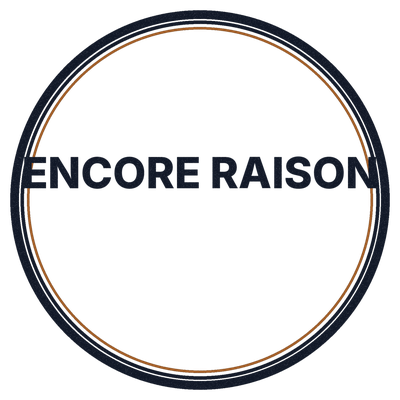
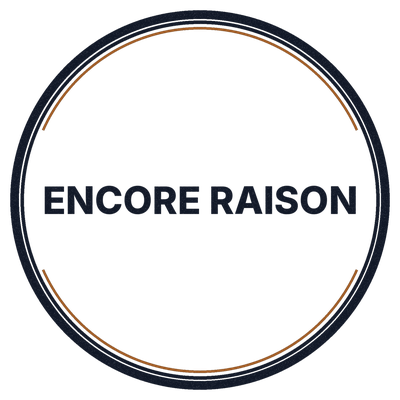
Sceau d'Orgueil : « ENCORE RAISON » centré, anneau or en deux arcs
Le texte est désormais centré au milieu exact du tampon (plus décalé
vers le haut pour laisser la place à la date). L'anneau or/ocre
n'est plus un cercle complet passant derrière les lettres : deux arcs
(haut et bas) s'arrêtent chacun avant la ligne horizontale du texte,
laissant un petit vide de chaque côté — fidèle à la photo de
référence. Position de la date réajustée en conséquence, plus bas.

Claude-Session: https://claude.ai/code/session_01PBuuTPFwSQh83FnajFjYwS

Changed region(s): [[0.06, 0.33, 0.96, 0.66], [0.09, 0.63, 0.12, 0.69], [0.87, 0.66, 0.9, 0.69]]

diff --git a/components/PredictionCard.tsx b/components/PredictionCard.tsx
@@ -48,8 +48,8 @@ const STAMP_DIAMETER = 120;
 /** Position de la date et de son soulignement, en fraction du diamètre —
  * doit rester cohérente avec l'espace laissé vide sous « ENCORE RAISON »
  * dans l'artwork généré par scripts/generate_stamp.py. */
-const STAMP_DATE_TOP_FRACTION = 0.53;
-const STAMP_DATE_RULE_TOP_FRACTION = 0.62;
+const STAMP_DATE_TOP_FRACTION = 0.58;
+const STAMP_DATE_RULE_TOP_FRACTION = 0.67;
 
 /**
  * Carte d'une prédiction, partagée entre les onglets À venir et Passées du

diff --git a/scripts/generate_stamp.py b/scripts/generate_stamp.py
@@ -37,11 +37,22 @@ GAP1_FRAC = 0.02
 MIDDLE_WIDTH_FRAC = 0.017
 GAP2_FRAC = 0.018
 GOLD_WIDTH_FRAC = 0.013
+# L'anneau or/ocre n'est pas un cercle complet : deux arcs (haut et bas) qui
+# s'arrêtent chacun avant d'atteindre la ligne horizontale du texte, laissant
+# un petit vide de chaque côté plutôt que de passer derrière les lettres.
+GOLD_GAP_HALF_ANGLE_DEG = 24
 
 
 def ring(draw, radius, width, color):
     bbox = [CENTER - radius, CENTER - radius, CENTER + radius, CENTER + radius]
     draw.ellipse(bbox, outline=color + (255,), width=width)
+
+
+def ring_two_arcs(draw, radius, width, color, gap_half_angle_deg):
+    bbox = [CENTER - radius, CENTER - radius, CENTER + radius, CENTER + radius]
+    g = gap_half_angle_deg
+    draw.arc(bbox, start=g, end=180 - g, fill=color + (255,), width=width)
+    draw.arc(bbox, start=180 + g, end=360 - g, fill=color + (255,), width=width)
 
 
 def add_grain(layer, amount=14, seed=7):
@@ -75,14 +86,19 @@ def main():
     gold_outer_edge = middle_outer_edge - HALF * MIDDLE_WIDTH_FRAC - HALF * GAP2_FRAC
     gold_width = HALF * GOLD_WIDTH_FRAC
     gold_centerline = gold_outer_edge - gold_width / 2
-    ring(draw, radius=gold_centerline, width=round(gold_width), color=GOLD)
+
+    # Deux arcs (haut et bas) plutôt qu'un cercle complet : chacun s'arrête
+    # avant la ligne horizontale du texte, laissant un vide de chaque côté
+    # au lieu de passer derrière les lettres.
+    ring_two_arcs(draw, radius=gold_centerline, width=round(gold_width), color=GOLD,
+                  gap_half_angle_deg=GOLD_GAP_HALF_ANGLE_DEG)
 
     inner_content_radius = gold_outer_edge - HALF * GOLD_WIDTH_FRAC
 
-    # « ENCORE RAISON » sur une seule ligne, dimensionné pour déborder
-    # légèrement sur l'anneau intérieur à ses deux extrémités.
+    # « ENCORE RAISON » centré au milieu exact du tampon (plus au-dessus du
+    # centre) — la date, plus bas, n'a besoin d'aucune place réservée ici.
     text = "ENCORE RAISON"
-    target_width = inner_content_radius * 2.08
+    target_width = inner_content_radius * 1.86
     font_size = 260
     font = ImageFont.truetype(FONT_PATH, font_size)
     bbox = draw.textbbox((0, 0), text, font=font)
@@ -93,13 +109,14 @@ def main():
         bbox = draw.textbbox((0, 0), text, font=font)
         text_w = bbox[2] - bbox[0]
     text_h = bbox[3] - bbox[1]
-    text_y = CENTER - text_h * 1.35  # au-dessus du centre : laisse la place à la date
+    text_y = CENTER - text_h / 2
     draw.text(
         (CENTER - text_w / 2 - bbox[0], text_y - bbox[1]),
         text,
         font=font,
         fill=INK + (255,),
     )
+
     print(
         "font_size", font_size,
         "text_w", round(text_w), "text_h", round(text_h),
